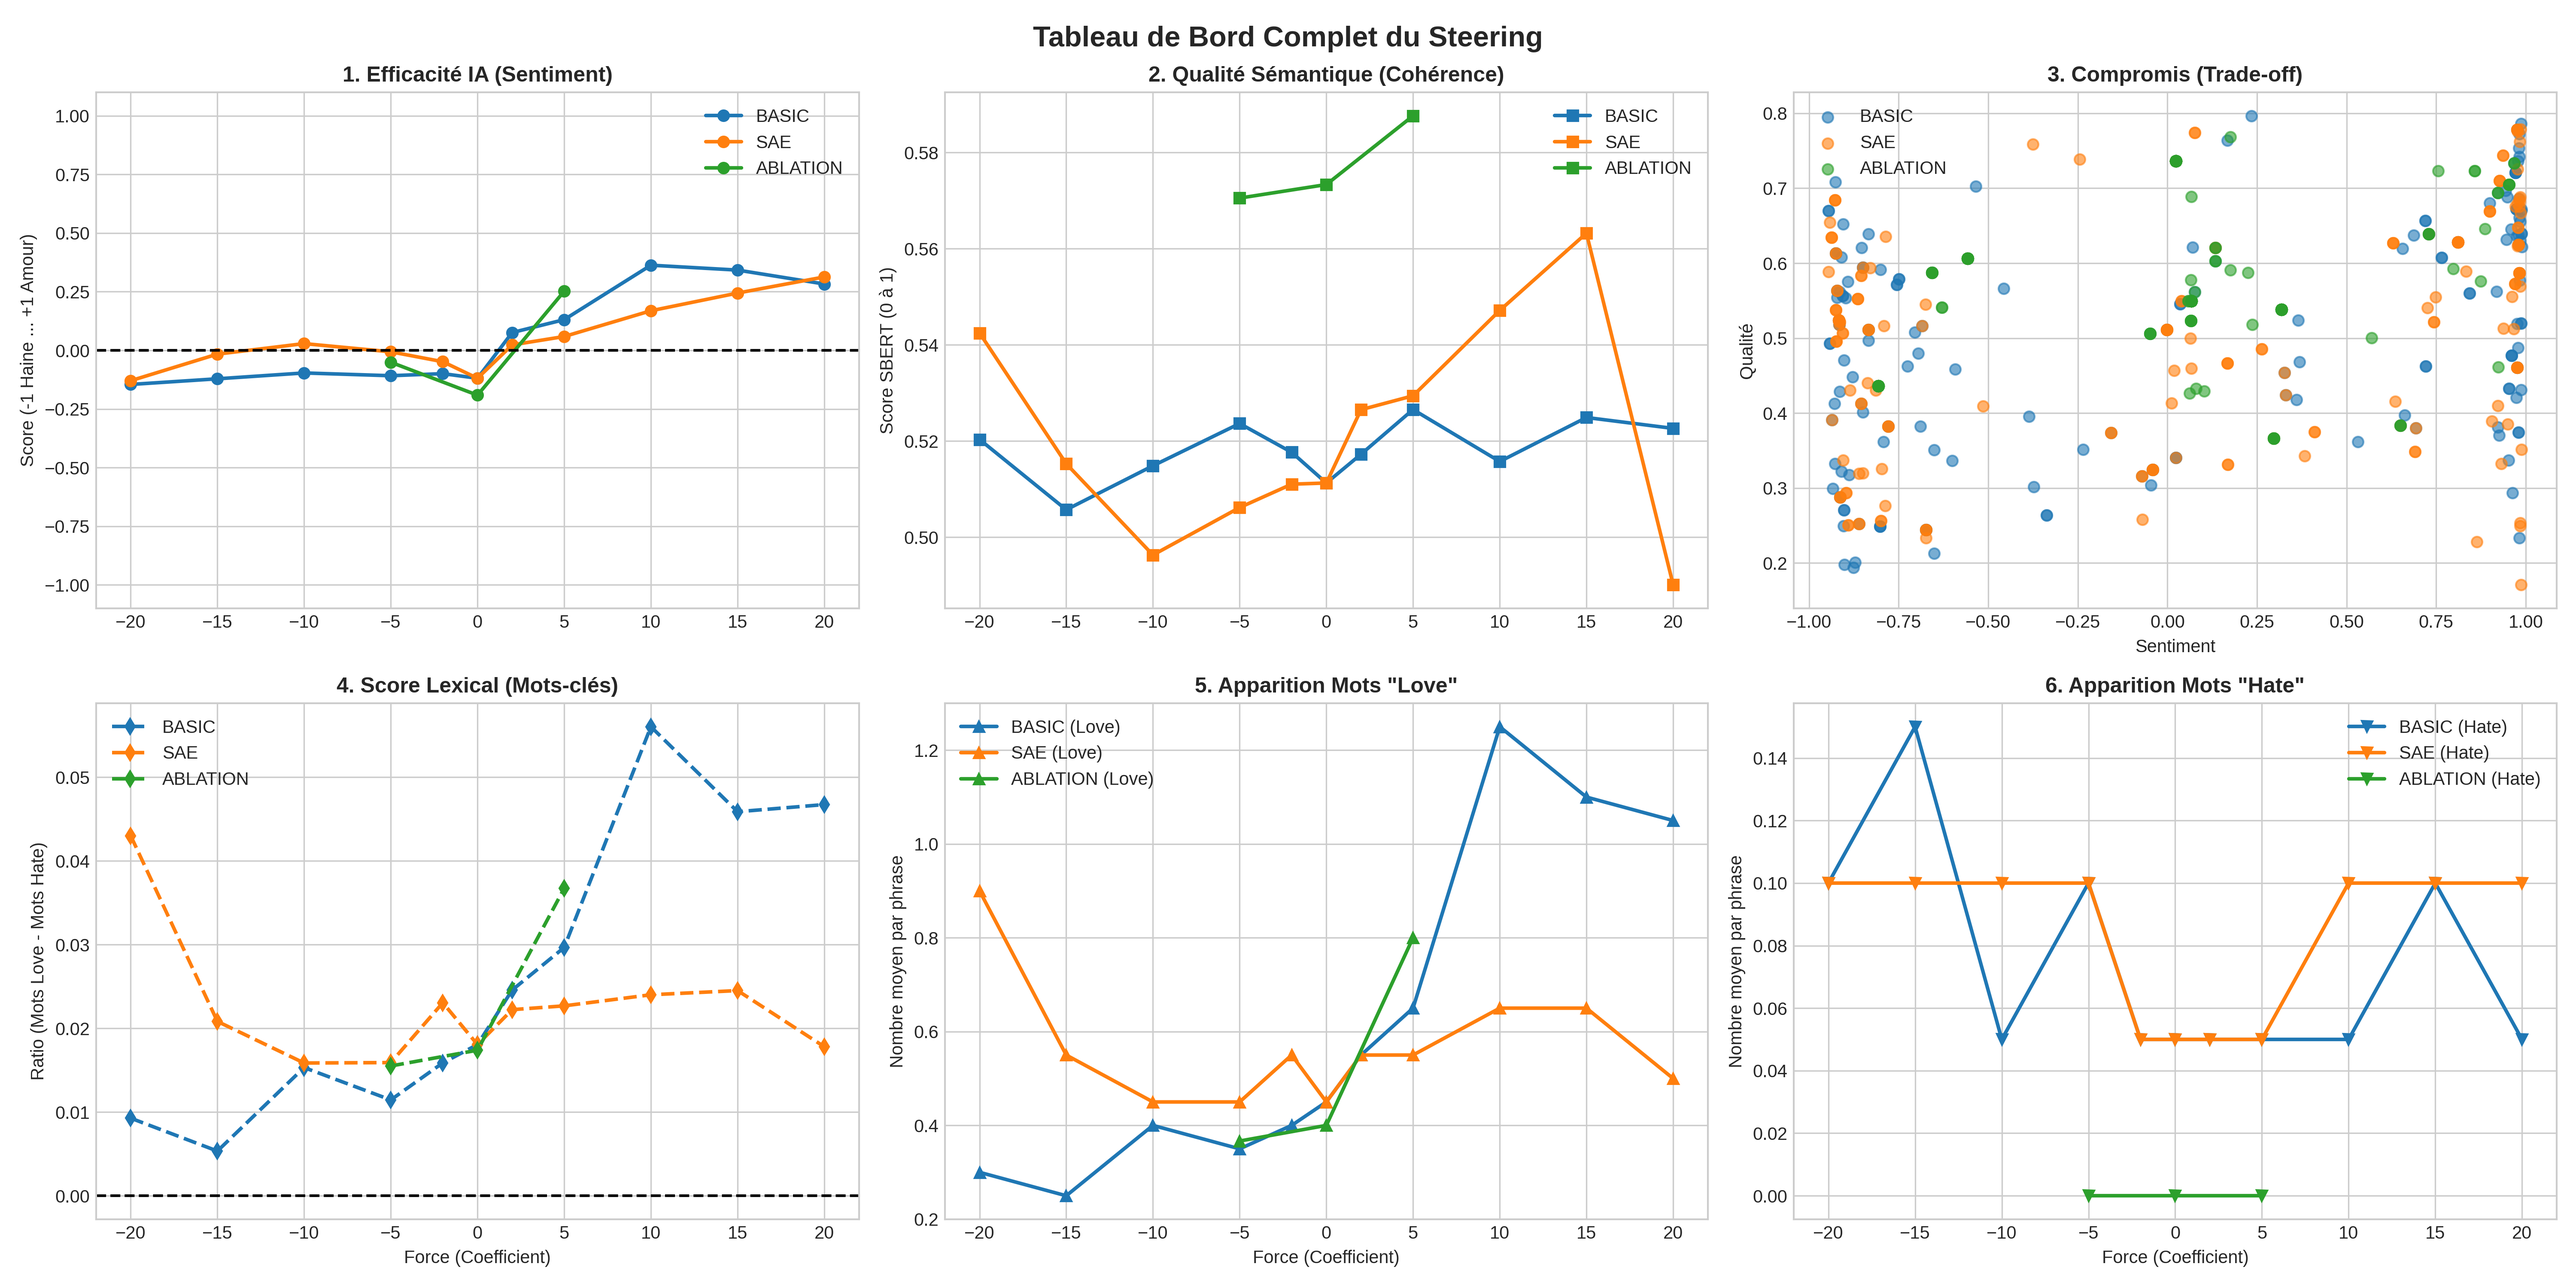
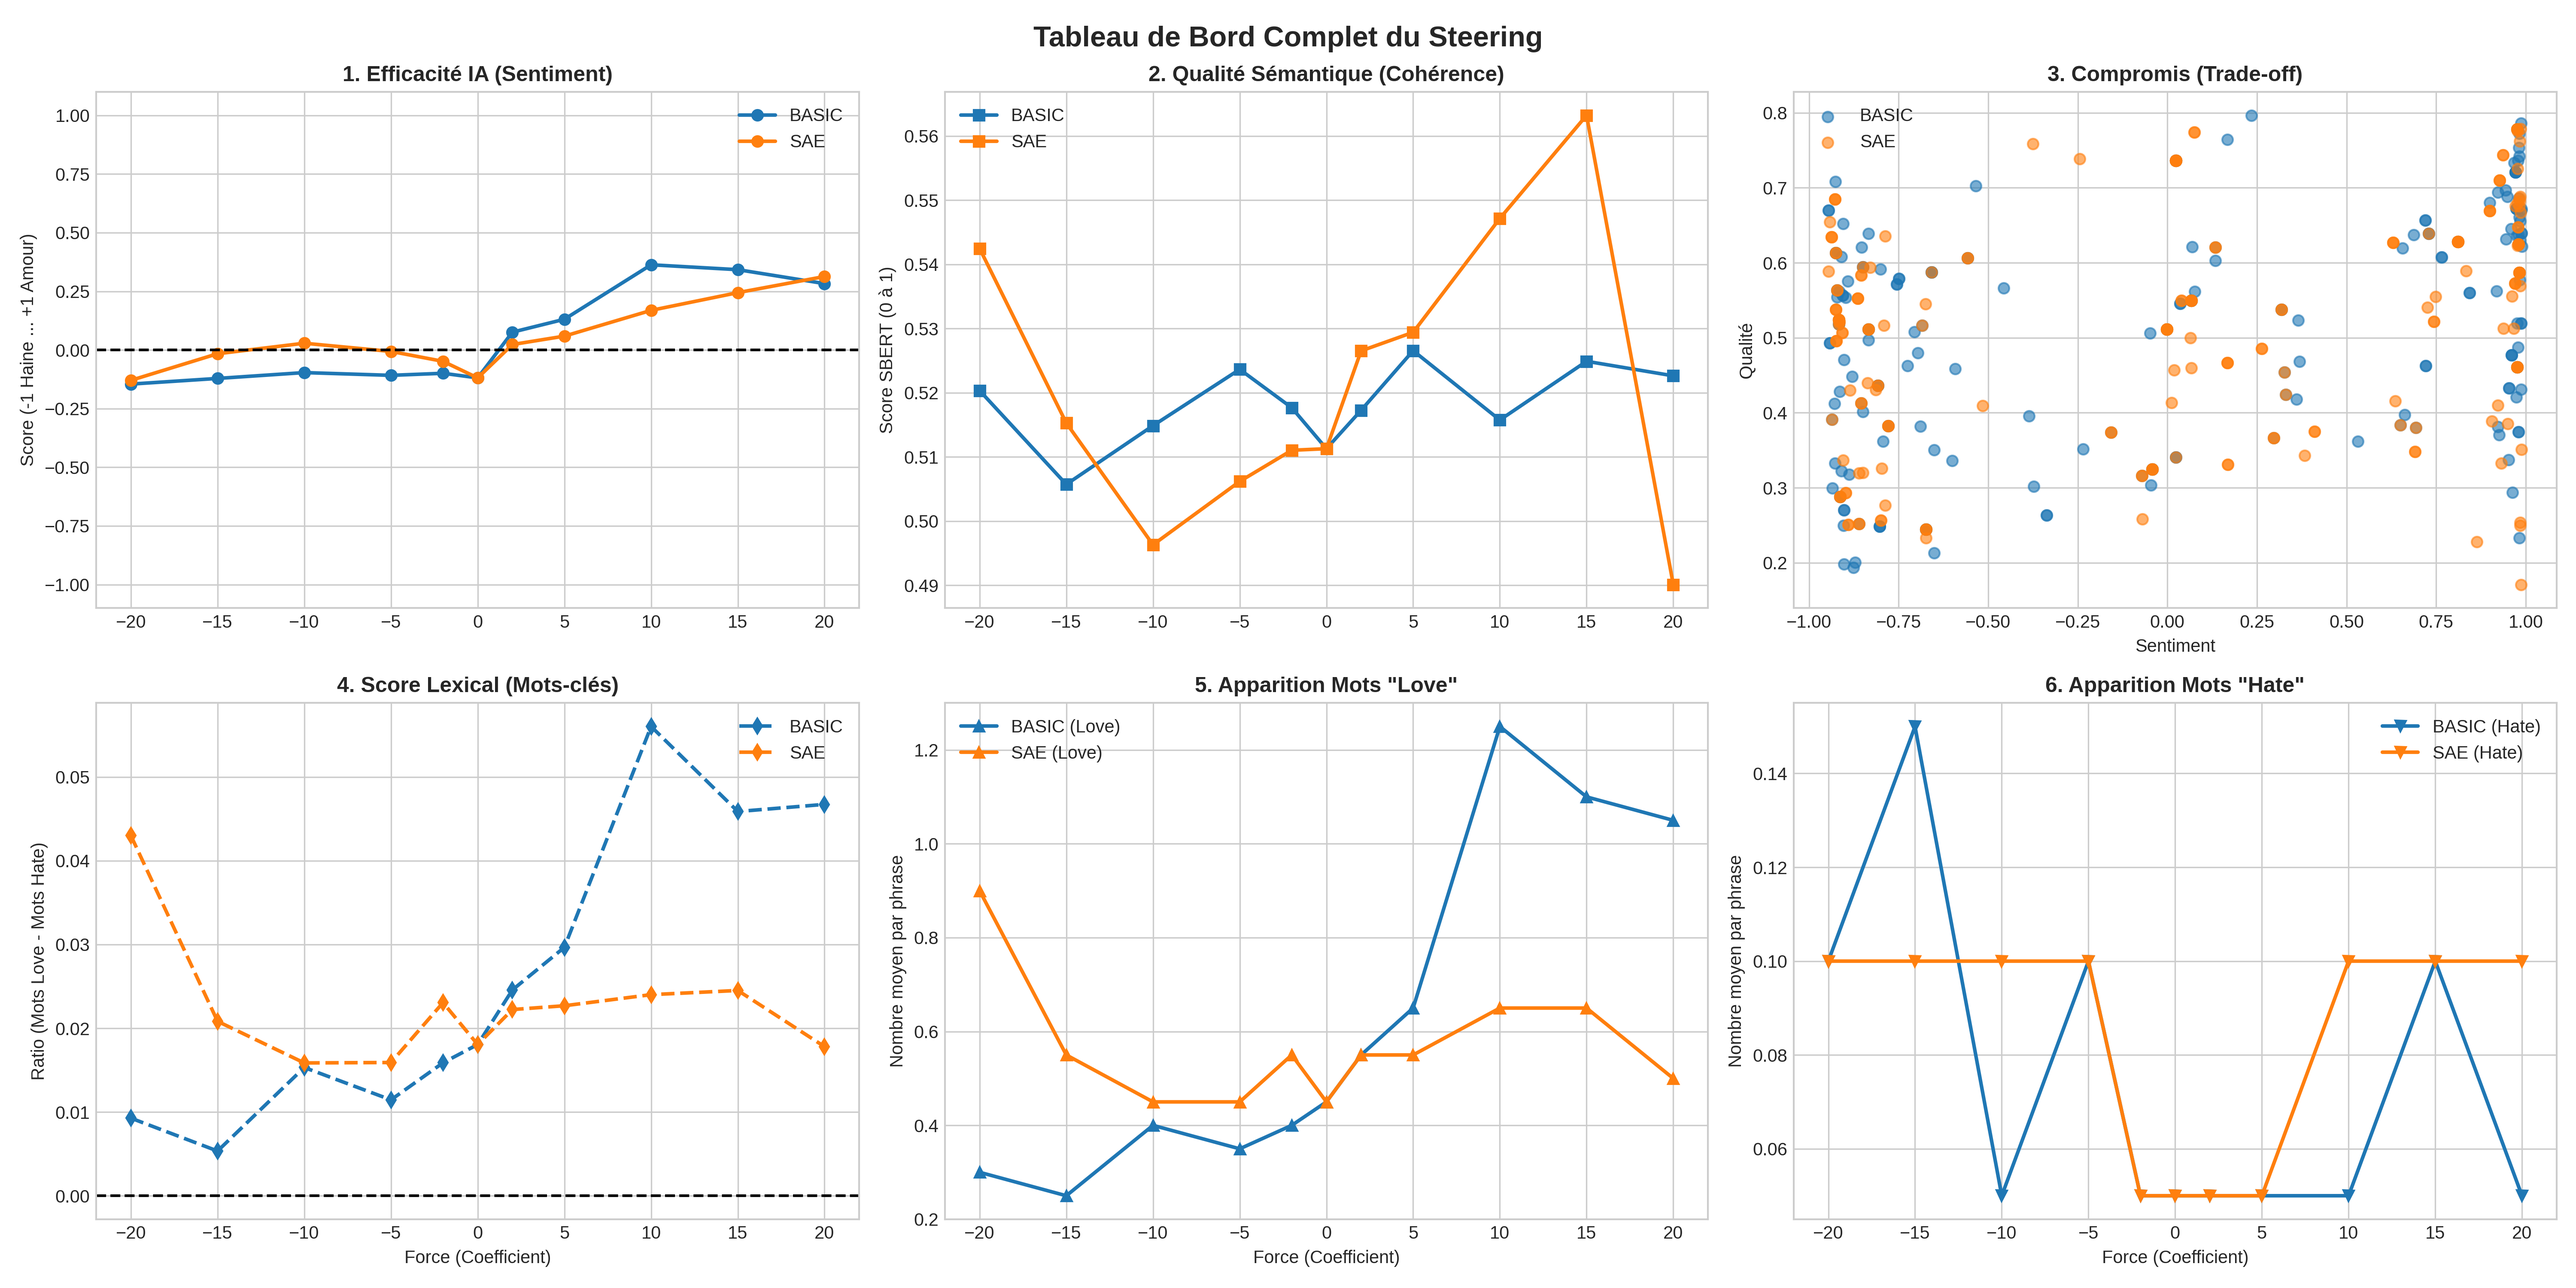
correction visuel

diff --git a/src/visualization.py b/src/visualization.py
@@ -151,7 +151,8 @@ def load_enrich_and_save():
     return pd.concat(dfs, ignore_index=True),id_timestamped_files
 
 # Affichage du tableau de bord complet
-def plot_results(df,id_timestamped_files):
+def plot_results(df_all,id_timestamped_files):
+    df = df_all[df_all['Method'] != 'ABLATION'].copy()
     if df is None or df.empty: return
 
     if 'coefficient' in df.columns:
@@ -163,7 +164,10 @@ def plot_results(df,id_timestamped_files):
     plt.style.use('seaborn-v0_8-whitegrid')
     fig, axes = plt.subplots(2, 3, figsize=(20, 10))
     fig.suptitle('Tableau de Bord Complet du Steering', fontsize=16, fontweight='bold')
-    
+    try:
+        fig.canvas.manager.set_window_title("Analyse 1 : Comparaison Basic vs SAE")
+    except:
+        pass 
     # 1. Efficacité (Sentiment)
     ax = axes[0, 0]
     for method in methods:
@@ -254,14 +258,64 @@ def plot_results(df,id_timestamped_files):
     plt.savefig(save_path, dpi=300)
     print(f"\nTableau de bord sauvegardé sous : {save_path}")
     
-    try: plt.show()
-    except: pass
+
+def plot_ablation_study(df, id_timestamped_files):
+
+    df_ab = df[df['Method'] == 'ABLATION'].copy()
+    
+    if df_ab.empty:
+        return
+        
+    if 'layer' not in df_ab.columns:
+        return
+
+    df_ab = df_ab.sort_values(by='layer')
+    
+    fig, ax1 = plt.subplots(figsize=(10, 6))
+    
+    try:
+        fig.canvas.manager.set_window_title("Analyse 2 : Ablation par Couche")
+    except:
+        pass 
+    # Axe Y1 : Sentiment (Bleu)
+    color = 'tab:blue'
+    ax1.set_xlabel('Couche du Modèle (Layer Index)')
+    ax1.set_ylabel('Impact sur le Sentiment', color=color, fontweight='bold')
+    
+    grouped_sent = df_ab.groupby('layer')['classifier_score'].mean()
+    ax1.plot(grouped_sent.index, grouped_sent.values, color=color, marker='o', linewidth=3, label="Sentiment")
+    ax1.tick_params(axis='y', labelcolor=color)
+    ax1.set_ylim(-1.1, 1.1)
+    ax1.axhline(0, color='gray', linestyle='--', alpha=0.5)
+
+    # Axe Y2 : Qualité (Vert)
+    ax2 = ax1.twinx()  
+    color = 'tab:green'
+    ax2.set_ylabel('Qualité Sémantique', color=color, fontweight='bold')
+    grouped_sem = df_ab.groupby('layer')['semantic_score'].mean()
+    ax2.plot(grouped_sem.index, grouped_sem.values, color=color, marker='s', linestyle='--', linewidth=2, label="Qualité")
+    ax2.tick_params(axis='y', labelcolor=color)
+    ax2.set_ylim(0, 1.1)
+
+    plt.title("Étude d'Ablation : Impact par Couche", fontsize=14, fontweight='bold')
+    fig.tight_layout()
+    
+    base_dir = os.path.dirname(os.path.dirname(os.path.abspath(__file__)))
+    save_path = os.path.join(base_dir, "results", "plots", "etude_ablation_layers_"+id_timestamped_files+".png")
+    os.makedirs(os.path.dirname(save_path), exist_ok=True)
+
+    plt.savefig(save_path, dpi=300)
+    print(f"Graphique Ablation sauvegardé : {save_path}")
+
 
 def run_visualizations():
     print("\nGénération du Tableau de Bord Complet...")
     df,id_timestamped_files = load_enrich_and_save()
     if df is not None:
         plot_results(df,id_timestamped_files)
+        plot_ablation_study(df, id_timestamped_files)
+        try: plt.show()
+        except: pass
     else:
         print("Aucune donnée disponible.")
 

diff --git a/run_experiments.py b/run_experiments.py
@@ -447,13 +447,25 @@ if __name__ == "__main__":
     parser.add_argument("--no-classifier", action="store_true", help="Skip sentiment classifier")
     parser.add_argument("--no-save", action="store_true", help="Don't save results")
     parser.add_argument("--no-visuel", action="store_true", help="Skip visualization")
+    parser.add_argument("--only-visuel", action="store_true", help="only visualization")
     args = parser.parse_args()
-    
-    main(
-        run_basic=not args.no_basic,
-        run_sae=not args.no_sae,
-        run_ablation=not args.no_ablation,
-        use_classifier=not args.no_classifier,
-        save=not args.no_save,
-        visuel=not args.no_visuel
-    )
+
+    if args.only_visuel:
+        print("\n Running ONLY Visualizations\n")
+        main(
+            run_basic=False,
+            run_sae=False,
+            run_ablation=False,
+            use_classifier=False,
+            save=False,
+            visuel=True
+        )
+    else:
+        main(
+            run_basic=not args.no_basic,
+            run_sae=not args.no_sae,
+            run_ablation=not args.no_ablation,
+            use_classifier=not args.no_classifier,
+            save=not args.no_save,
+            visuel=not args.no_visuel
+        )
